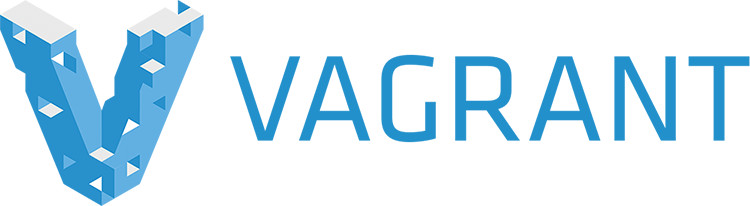
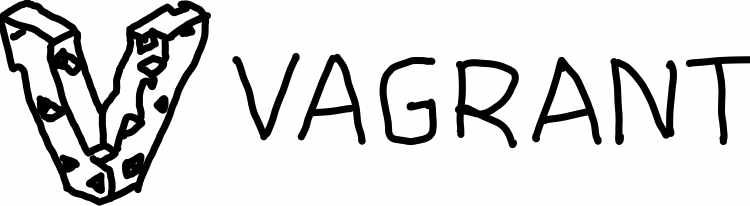
Substitute post covers with doodles

Changed region(s): [[0.3067, 0.2621, 1.0, 0.7282], [0.0, 0.0, 0.3067, 1.0]]

diff --git a/_sass/_base.scss b/_sass/_base.scss
@@ -134,12 +134,12 @@
         padding-left: 0;
       }
 
-      ul {
+      .recipe-content > ul {
         list-style-type: none;
         padding-left: 0;
       }
 
-      ol {
+      .recipe-content > ol {
         padding-left: 25px;
       }
 
@@ -376,3 +376,21 @@
           filter: invert(1);
         }
       }*/
+
+      /* code */
+      .highlighter-rouge {
+        max-width: 960px;
+      }
+
+      pre.highlight {
+        white-space: pre;
+        overflow-x: scroll;
+        background-color: #e2cde7;
+      }
+
+            /* Responsive layout */
+      @media (max-width: 820px) {
+      .highlighter-rouge {
+        max-width: 560px;
+      }
+      }

diff --git a/blog/_posts/2023-10-05-meeting-madness-and-stages-of-grief.md b/blog/_posts/2023-10-05-meeting-madness-and-stages-of-grief.md
@@ -6,7 +6,6 @@ date:   2023-10-05 08:00:00 -0700
 cover: /assets/posts/meetings.jpg
 description: "How did we get here? How are meetings the first option? Why do they mostly suck?"
 tags: meetings work
-published: false
 ---
 
 
@@ -158,10 +157,10 @@ If you get anything out of this I hope it's useful to you and you can put some o
 * Time box and keep them short!
 * Document them!
 
-**And please, please stop wasting everyone's time!**
-
 
 Thank you for reading! "Bloop bloop", I'm out!
 
-Thanks to [PollyDot](https://pixabay.com/photos/king-penguins-birds-animals-384252/){:target="_blank"} for the article image.
+---
+
+Thanks to [PollyDot](https://pixabay.com/photos/king-penguins-birds-animals-384252/){:target="_blank"} for the original article image.
 

diff --git a/blog/_posts/2018-09-01-what-happens-when-you-type-www-duckduckgo-com-in-the-browser-and-press-enter-.md b/blog/_posts/2018-09-01-what-happens-when-you-type-www-duckduckgo-com-in-the-browser-and-press-enter-.md
@@ -8,7 +8,7 @@ description: What happens when you type duckduckgo.com in the browser and press 
 tags: computers internet http browser
 ---
 
-**duckduckgo.com** is typed in the [URL](https://en.wikipedia.org/wiki/URL) (Uniform Resource Locator or web address) bar and the Enter key is pressed.
+**duckduckgo.com** is typed in the [URL](https://en.wikipedia.org/wiki/URL) (Uniform Resource Locator or web address) bar and the Enter key is pressed. What happens next?
 
 ![HTTP flow](/assets/posts/http_flow.jpg)
 

diff --git a/blog/_posts/2016-09-04-migrating-my-website-to-jekyll-and-github-pages.md b/blog/_posts/2016-09-04-migrating-my-website-to-jekyll-and-github-pages.md
@@ -166,4 +166,6 @@ In a week, my site using Jekyll and Github Pages was available and I am quite ha
 
 You can see the source code in [my Github repository](https://github.com/mariusavram91/mariusavram){:target="_blank"}.
 
+---
+
 Thanks to Jekyll for the logos, [jekyll](https://jekyllrb.com/img/logo-2x.png){:target="_blank"} and [octojekyll](https://jekyllrb.com/img/octojekyll.png){:target="_blank"}, I have put them together using [Gimp](http://www.gimp.org){:target="_blank"} for the post’s cover.

diff --git a/blog/_posts/2015-05-20-create-lightweight-vagrant-box-from-scratch.md b/blog/_posts/2015-05-20-create-lightweight-vagrant-box-from-scratch.md
@@ -261,5 +261,7 @@ If you want to know how to get a Digital Ocean droplet running in just a few min
 
 Thank you for reading!
 
+---
+
 Thanks to [vagrantup.com](http://vagrantup.com){:target="_blank"} for the logo.
 
